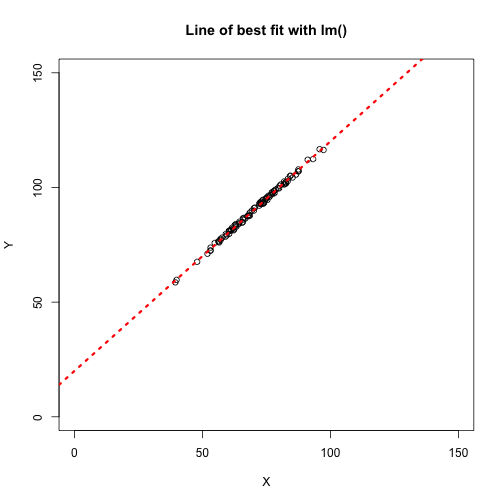
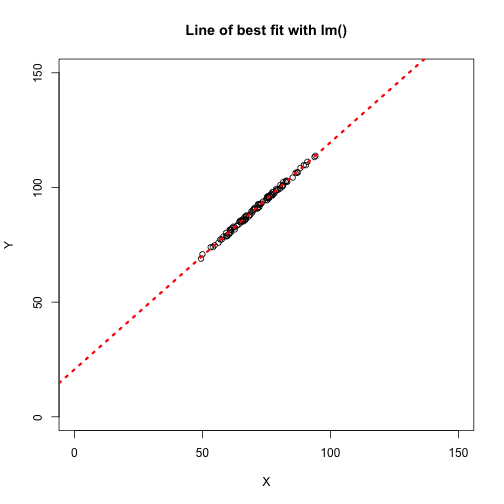
Adding apply,apply etc

diff --git a/r_course/introToR_Day2.html b/r_course/introToR_Day2.html
@@ -1299,6 +1299,67 @@ Number 10 is  10
 
 </section>
 <section data-transition="linear" data-transition-speed="default">
+<h3>apply()</h3>
+<div class="slideContent" >
+<p>The <strong>apply()</strong> function applys a function to the rows or columns of a matrix. The arguments <strong>FUN</strong> specifies the function to apply and <strong>MARGIN</strong> whether to apply the functions by rows/columns or both.</p>
+
+<pre><code>apply(DATA,MARGIN,FUN,...)
+</code></pre>
+
+<ul>
+<li><strong>DATA</strong> - A matrix (or something to be coerced into a matrix)</li>
+<li><strong>MARGIN</strong> - 1 for rows, 2 for columns, (1,2) for cells</li>
+</ul>
+
+</div>
+
+</section>
+<section data-transition="linear" data-transition-speed="default">
+<h3>apply()</h3>
+<div class="slideContent" >
+<pre><code class="r">matExample &lt;- matrix(c(1:4),nrow=2,ncol=2,byrow=T)
+matExample
+</code></pre>
+
+<pre><code>     [,1] [,2]
+[1,]    1    2
+[2,]    3    4
+</code></pre>
+
+<p>Get the mean of rows</p>
+
+<pre><code class="r">apply(matExample,1,mean)
+</code></pre>
+
+<pre><code>[1] 1.5 3.5
+</code></pre>
+
+<p>Get the mean of columns</p>
+
+<pre><code class="r">apply(matExample,2,mean)
+</code></pre>
+
+<pre><code>[1] 2 3
+</code></pre>
+
+</div>
+
+</section>
+<section data-transition="linear" data-transition-speed="default">
+<h3>Additional arguments</h3>
+<div class="slideContent" >
+
+</div>
+
+</section>
+<section data-transition="linear" data-transition-speed="default">
+<h3>lapply()</h3>
+<div class="slideContent" >
+
+</div>
+
+</section>
+<section data-transition="linear" data-transition-speed="default">
 <h3>Functions</h3>
 <div class="column column1 slideContent" >
 <p>As we have seen, a function is command which require one or more arguments and returns a single R object. </p>
@@ -1310,7 +1371,7 @@ y &lt;- jitter(x,amount=1)+20
 mean(x)
 </code></pre>
 
-<pre><code>[1] 70.48462
+<pre><code>[1] 70.16568
 </code></pre>
 
 <pre><code class="r">lmExample &lt;- data.frame(X=x,Y=y)
@@ -1328,7 +1389,7 @@ lmResult &lt;- lm(Y~X,data=lmExample)
 abline(lmResult,col=&quot;red&quot;,lty=3,lwd=3)
 </code></pre>
 
[2 lines of base64/hex data omitted]
 
 </div>
 
@@ -1478,7 +1539,7 @@ result
 [1] 100
 
 $DateRun
-[1] &quot;Tue Jan 27 21:25:21 2015&quot;
+[1] &quot;Tue Jan 27 22:12:06 2015&quot;
 </code></pre>
 
 </div>
@@ -1594,6 +1655,8 @@ x &lt;- 1:40
 y &lt;- 5:35</p>
 
 <p>Harder to read</p>
+
+<p>Do i show that dimnames actually can set dimension names?</p>
 
 <p>Some tips for speed comparisons..</p>
 

diff --git a/r_course/introToR_Day2.md b/r_course/introToR_Day2.md
@@ -408,7 +408,55 @@ There are functions which allow you to loop over a data type and apply a functio
 
 - **sapply** - Apply function to every element of a vector or list and return results as a vector,matrix or list.
 
+apply()
+=========
 
+The **apply()** function applys a function to the rows or columns of a matrix. The arguments **FUN** specifies the function to apply and **MARGIN** whether to apply the functions by rows/columns or both.
+
+```
+apply(DATA,MARGIN,FUN,...)
+```
+
+- **DATA** - A matrix (or something to be coerced into a matrix)
+- **MARGIN** - 1 for rows, 2 for columns, (1,2) for cells
+
+apply()
+====
+
+```r
+matExample <- matrix(c(1:4),nrow=2,ncol=2,byrow=T)
+matExample
+```
+
+```
+     [,1] [,2]
+[1,]    1    2
+[2,]    3    4
+```
+Get the mean of rows
+
+```r
+apply(matExample,1,mean)
+```
+
+```
+[1] 1.5 3.5
+```
+Get the mean of columns
+
+```r
+apply(matExample,2,mean)
+```
+
+```
+[1] 2 3
+```
+
+Additional arguments
+=====================
+
+lapply()
+====
 
 Functions
 ===
@@ -425,7 +473,7 @@ mean(x)
 ```
 
 ```
-[1] 70.48462
+[1] 70.16568
 ```
 
 ```r
@@ -440,7 +488,7 @@ plot(Y~X,data=lmExample,main="Line of best fit with lm()",
 abline(lmResult,col="red",lty=3,lwd=3)
 ```
 
-![plot of chunk unnamed-chunk-20](introToR_Day2-figure/unnamed-chunk-20-1.png) 
+![plot of chunk unnamed-chunk-23](introToR_Day2-figure/unnamed-chunk-23-1.png) 
 
 
 Defining your own functions
@@ -594,7 +642,7 @@ $Calculation
 [1] 100
 
 $DateRun
-[1] "Tue Jan 27 21:25:21 2015"
+[1] "Tue Jan 27 22:12:06 2015"
 ```
 
 Saving scripts
@@ -704,7 +752,7 @@ y <- 5:35
 
 Harder to read
 
-
+Do i show that dimnames actually can set dimension names?
 
 Some tips for speed comparisons..
 
